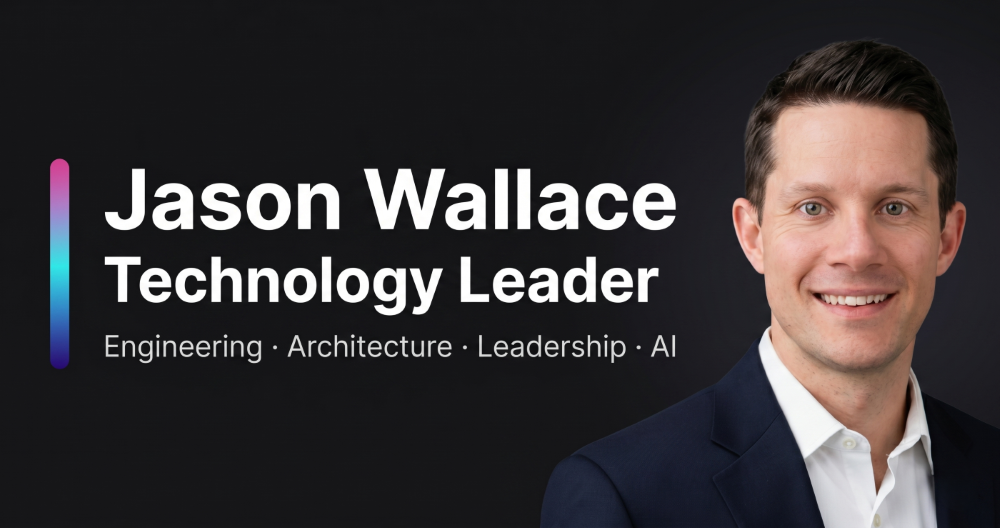
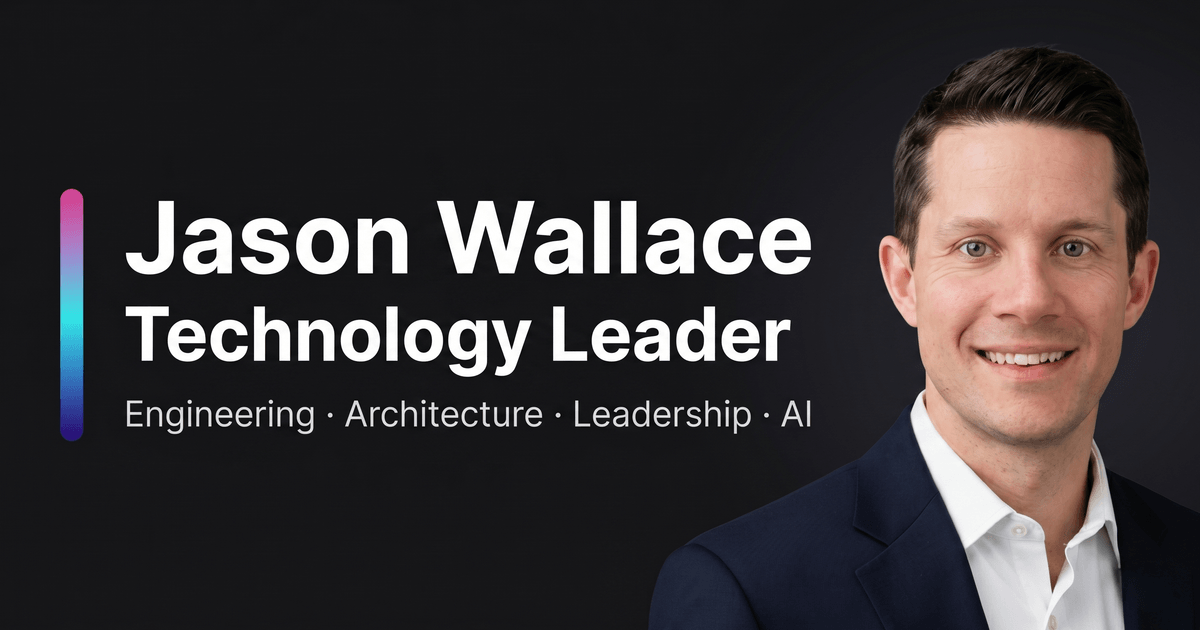
Revisions

diff --git a/src/consts.ts b/src/consts.ts
@@ -6,4 +6,4 @@ export const SITE_TITLE =
   "Jason Wallace — Engineering Leader & Solution Architect";
 
 export const SITE_DESCRIPTION =
-  "Twenty-four years of full-lifecycle engineering. Twelve leading the people who do it. Today, leading Wealth & Asset Management Engineering at Charles Schwab — and looking for what's next.";
+  "Twenty-four years of full-lifecycle engineering. Twelve leading the people who do it. Today, leading Wealth & Asset Management Engineering at Charles Schwab — and still chasing hard problems.";

diff --git a/src/styles/globals.css b/src/styles/globals.css
@@ -21,7 +21,12 @@
     font-family: var(--font-sans);
     font-feature-settings: "cv11", "ss01", "ss03";
     -webkit-font-smoothing: antialiased;
-    scroll-behavior: smooth;
+  }
+
+  @media (prefers-reduced-motion: no-preference) {
+    html {
+      scroll-behavior: smooth;
+    }
   }
 
   body {
